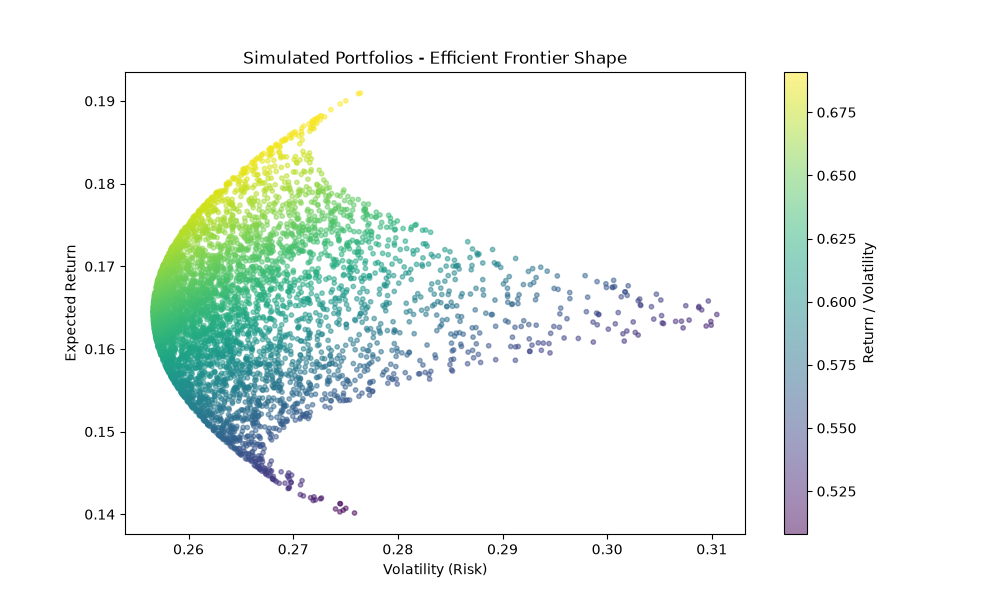
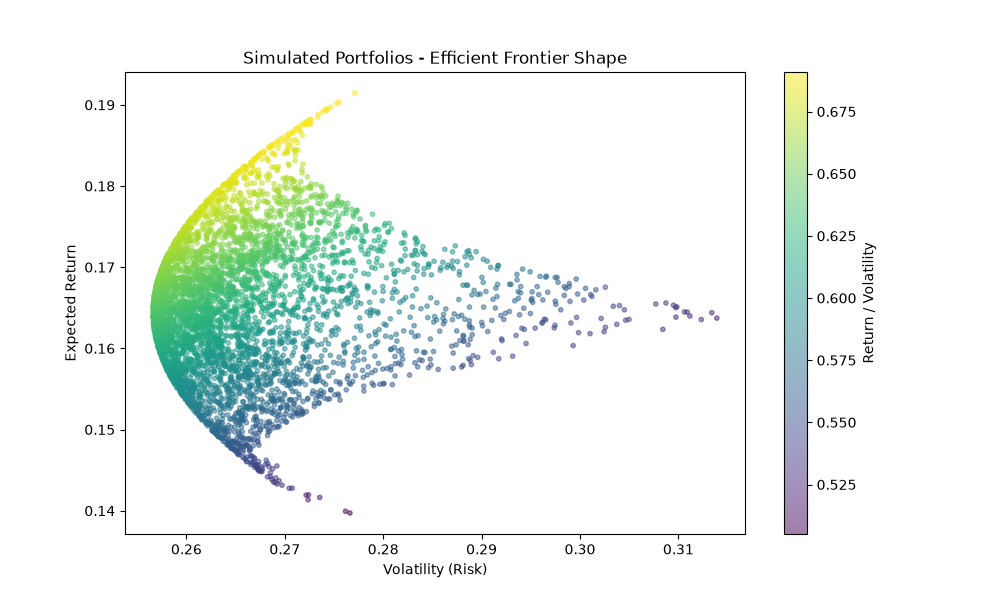
Add weight-capped max Sharpe optimizer to reduce concentration risk

diff --git a/src/quantlab/optimization/portfolio.py b/src/quantlab/optimization/portfolio.py
@@ -187,3 +187,50 @@ def find_max_sharpe_portfolio(
         "return": calculate_portfolio_return(optimal_weights, annual_returns),
         "volatility": calculate_portfolio_volatility(optimal_weights, covariance_matrix)
     }
+    
+    
+def find_max_sharpe_portfolio_capped(
+    annual_returns: pd.Series,
+    covariance_matrix: pd.DataFrame,
+    risk_free_rate: float = 0.04,
+    max_weight: float = 0.4
+) -> dict:
+    """
+    Find the max Sharpe Ratio portfolio, with a cap on any single
+    asset's weight to avoid extreme concentration.
+
+    Args:
+        annual_returns: Series of annualized returns, one per asset.
+        covariance_matrix: Annualized covariance matrix.
+        risk_free_rate: Annualized risk-free rate, as a decimal.
+        max_weight: Maximum allowed weight for any single asset (0-1).
+
+    Returns:
+        A dictionary with keys 'weights', 'return', and 'volatility'.
+    """
+    num_assets = len(annual_returns)
+
+    def objective(weights):
+        port_return = calculate_portfolio_return(weights, annual_returns)
+        port_volatility = calculate_portfolio_volatility(weights, covariance_matrix)
+        sharpe = (port_return - risk_free_rate) / port_volatility
+        return -sharpe
+
+    constraints = {"type": "eq", "fun": lambda weights: np.sum(weights) - 1}
+    bounds = tuple((0, max_weight) for _ in range(num_assets))
+    initial_guess = np.array([1 / num_assets] * num_assets)
+
+    result = minimize(
+        objective,
+        initial_guess,
+        method="SLSQP",
+        bounds=bounds,
+        constraints=constraints
+    )
+
+    optimal_weights = result.x
+    return {
+        "weights": optimal_weights,
+        "return": calculate_portfolio_return(optimal_weights, annual_returns),
+        "volatility": calculate_portfolio_volatility(optimal_weights, covariance_matrix)
+    }

diff --git a/notebooks/check_portfolio.py b/notebooks/check_portfolio.py
@@ -90,3 +90,15 @@ print(f" Sharpe Ratio: {sharpe:.4f}")
 
 print(annual_returns)
 print(cov_matrix.columns)
+
+from src.quantlab.optimization.portfolio import find_max_sharpe_portfolio_capped
+
+capped_portfolio = find_max_sharpe_portfolio_capped(annual_returns, cov_matrix, max_weight=0.4)
+
+print("Capped Max Sharpe Portfolio (max 40% per asset):")
+print(f"  Weights: {capped_portfolio['weights']}")
+print(f"  Return: {capped_portfolio['return']:.4f}")
+print(f"  Volatility: {capped_portfolio['volatility']:.4f}")
+
+capped_sharpe = (capped_portfolio['return'] - 0.04) / capped_portfolio['volatility']
+print(f"  Sharpe Ratio: {capped_sharpe:.4f}")
